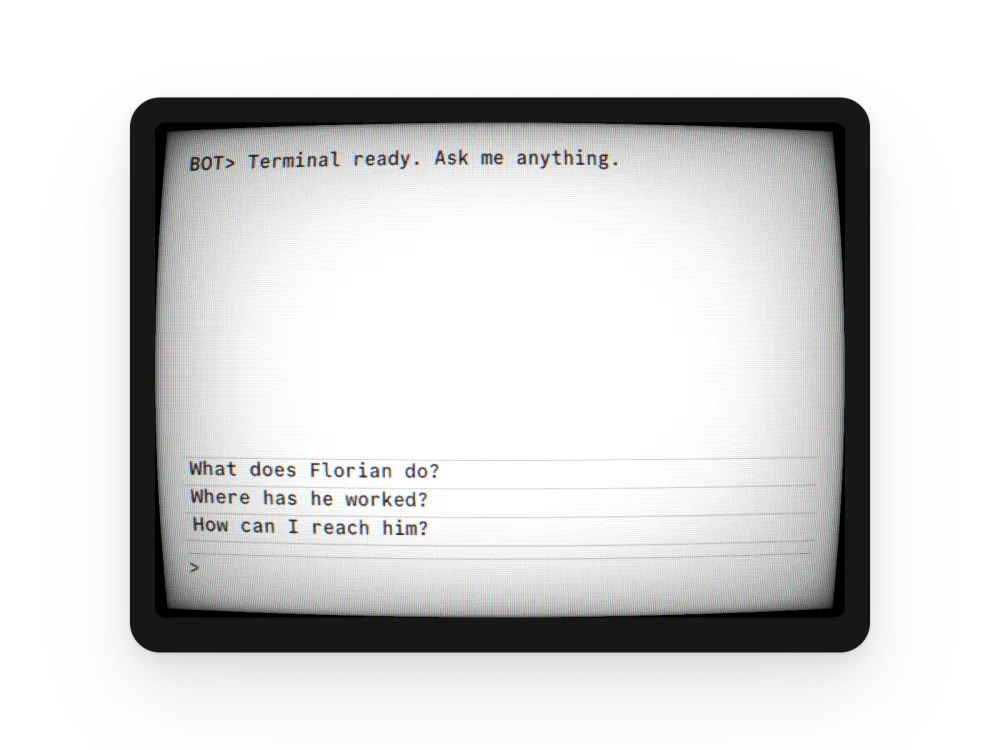
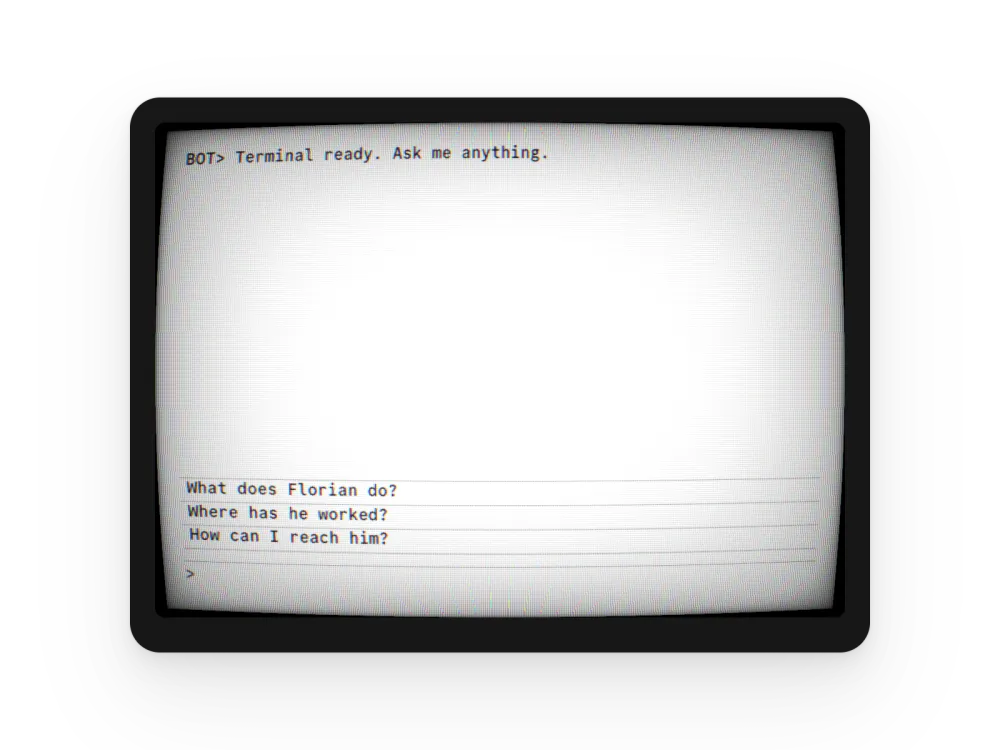
fix: issues

Changed region(s): [[0.186, 0.6133, 0.682, 0.7667], [0.186, 0.184, 0.62, 0.2453]]

diff --git a/src/routes/experiments.tsx b/src/routes/experiments.tsx
@@ -6,6 +6,14 @@ import { IconCrossSmall } from "central-icons/IconCrossSmall";
 import { AnimatePresence, motion, MotionConfig } from "motion/react";
 import { type ComponentType, lazy, Suspense, useCallback, useRef, useState } from "react";
 
+// A lazy component that also exposes `preload()` — calling it fires the underlying dynamic
+// import so the chunk is fetched ahead of render (on hover/focus/pointer-down), not only once
+// the tile mounts it. import() is cached, so the eventual lazy render reuses the same chunk.
+type PreloadableComponent = ComponentType & { preload: () => Promise<unknown> };
+
+const lazyDemo = (factory: () => Promise<{ default: ComponentType }>): PreloadableComponent =>
+  Object.assign(lazy(factory), { preload: factory });
+
 interface Experiment {
   slug: string;
   title: string;
@@ -15,7 +23,7 @@ interface Experiment {
   // the files exist the tile falls back to a plain panel.
   poster: string;
   posterDark: string;
-  Component: ComponentType;
+  Component: PreloadableComponent;
 }
 
 // The centered modal the tile morphs into when opened.
@@ -25,7 +33,7 @@ const experiment = (
   slug: string,
   title: string,
   tag: string,
-  Component: ComponentType,
+  Component: PreloadableComponent,
 ): Experiment => ({
   slug,
   title,
@@ -42,17 +50,17 @@ const experiment = (
 // chunk, fetched only when its tile is opened, and lets this stay the single source of truth.
 const EXPERIMENTS: Experiment[] = [
   experiment("windows-xp", "Windows XP", "Nostalgia",
-    lazy(() => import("@/features/experiments/components/xp-mascot-demo").then((m) => ({ default: m.XpMascot })))),
+    lazyDemo(() => import("@/features/experiments/components/xp-mascot-demo").then((m) => ({ default: m.XpMascot })))),
   experiment("metal-blob", "Metal Blob", "3D",
-    lazy(() => import("@/features/experiments/components/metal-blob-demo").then((m) => ({ default: m.MetalBlob })))),
+    lazyDemo(() => import("@/features/experiments/components/metal-blob-demo").then((m) => ({ default: m.MetalBlob })))),
   experiment("sticker-file", "Sticker File", "Paper",
-    lazy(() => import("@/features/experiments/components/sticker-file-demo").then((m) => ({ default: m.StickerFile })))),
+    lazyDemo(() => import("@/features/experiments/components/sticker-file-demo").then((m) => ({ default: m.StickerFile })))),
   experiment("slop-detector", "Slop Detector", "3D",
-    lazy(() => import("@/features/experiments/components/slop-detector").then((m) => ({ default: m.SlopDetector })))),
+    lazyDemo(() => import("@/features/experiments/components/slop-detector").then((m) => ({ default: m.SlopDetector })))),
   experiment("frosted-camera", "Frosted Camera", "Camera",
-    lazy(() => import("@/features/experiments/components/frosted-camera-demo").then((m) => ({ default: m.FrostedCamera })))),
+    lazyDemo(() => import("@/features/experiments/components/frosted-camera-demo").then((m) => ({ default: m.FrostedCamera })))),
   experiment("crt-terminal", "CRT Terminal", "Terminal",
-    lazy(() => import("@/features/experiments/components/crt-chat-demo").then((m) => ({ default: m.CrtChat })))),
+    lazyDemo(() => import("@/features/experiments/components/crt-chat-demo").then((m) => ({ default: m.CrtChat })))),
 ];
 
 const TRANSITION = { duration: 0.45, ease: [0.22, 1, 0.36, 1] } as const;
@@ -300,6 +308,11 @@ function ExperimentTile({ experiment, isActive, morph, onOpen, onClose }: Experi
           <button
             type="button"
             onClick={onOpen}
+            // Warm the demo's chunk on intent (hover / keyboard focus / press start) so it's
+            // fetched before the open morph finishes, not once the dialog has fully mounted.
+            onPointerEnter={() => Component.preload()}
+            onFocus={() => Component.preload()}
+            onPointerDown={() => Component.preload()}
             aria-label={`Open ${title}`}
             className="absolute inset-0 cursor-pointer outline-none focus-visible:ring-2 focus-visible:ring-default"
           />

diff --git a/src/components/shared/comparison.tsx b/src/components/shared/comparison.tsx
@@ -84,6 +84,9 @@ function DiffSurface({ before, after, beforeLabel, afterLabel, aspectRatio }: Di
       onKeyDown={handleKeyDown}
       className={cn(
         "relative w-full cursor-ew-resize touch-none select-none rounded-sm outline-none",
+        // iOS Safari ignores draggable/user-select on images; the callout has to be killed
+        // explicitly or a drag long-presses into the native "open image" preview.
+        "[-webkit-touch-callout:none]",
         "focus-visible:ring-2 focus-visible:ring-default",
       )}
       style={{ aspectRatio }}
@@ -96,7 +99,7 @@ function DiffSurface({ before, after, beforeLabel, afterLabel, aspectRatio }: Di
           alt=""
           decoding="async"
           draggable={false}
-          className="absolute inset-0 h-full w-full object-contain"
+          className="absolute inset-0 h-full w-full select-none object-contain [-webkit-user-drag:none]"
         />
       </motion.div>
       <motion.div className="absolute inset-0" style={{ clipPath: beforeClip }}>
@@ -105,7 +108,7 @@ function DiffSurface({ before, after, beforeLabel, afterLabel, aspectRatio }: Di
           alt=""
           decoding="async"
           draggable={false}
-          className="absolute inset-0 h-full w-full object-contain"
+          className="absolute inset-0 h-full w-full select-none object-contain [-webkit-user-drag:none]"
         />
       </motion.div>
       <motion.div

diff --git a/src/features/contact/components/crt/crt-text-renderer.ts b/src/features/contact/components/crt/crt-text-renderer.ts
@@ -36,15 +36,6 @@ interface ThemeColors {
   backHover: string;
 }
 
-const DARK_THEME: ThemeColors = {
-  bg: "#000000",
-  text: "#ffffff",
-  dim: "#999999",
-  prompt: "#dddddd",
-  back: "#888888",
-  backHover: "#ffffff",
-};
-
 const LIGHT_THEME: ThemeColors = {
   bg: "#ffffff",
   text: "#171717",
@@ -54,9 +45,10 @@ const LIGHT_THEME: ThemeColors = {
   backHover: "#171717",
 };
 
+// The tube glass stays a white screen in both schemes (only the surrounding bezel goes dark),
+// so the phosphor colours are always the light theme regardless of prefers-color-scheme.
 function getTheme(): ThemeColors {
-  if (typeof window === "undefined") return DARK_THEME;
-  return window.matchMedia("(prefers-color-scheme: dark)").matches ? DARK_THEME : LIGHT_THEME;
+  return LIGHT_THEME;
 }
 
 export interface HitArea {

diff --git a/src/features/experiments/components/crt-chat-demo.tsx b/src/features/experiments/components/crt-chat-demo.tsx
@@ -142,7 +142,7 @@ export const CrtChat = () => {
         suggestions={suggestions}
         onSuggestionClick={handleSuggestionClick}
         fullscreen={false}
-        scale={typeof window !== "undefined" && window.innerWidth < 768 ? 0.74 : 0.85}
+        scale={typeof window !== "undefined" && window.innerWidth < 768 ? 0.62 : 0.72}
         autoFocus={false}
       />
     </div>
